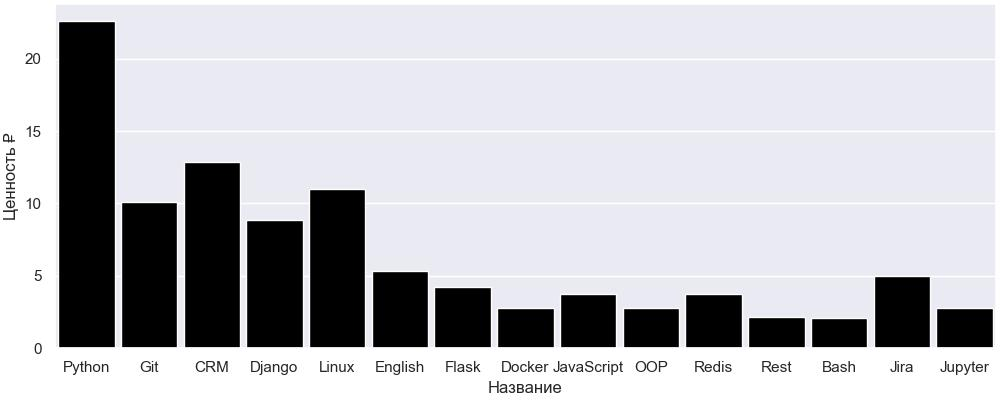
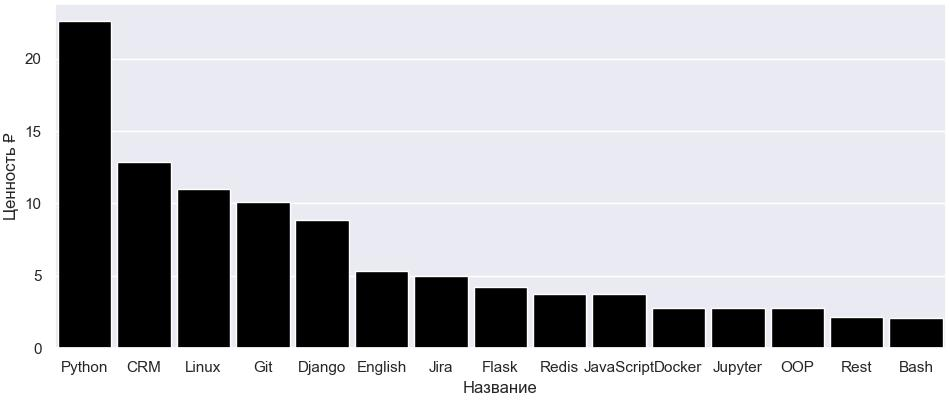
added description for some skills, special pages with details for skills and expanded sidebar

diff --git a/app/templates/side_navigation.html b/app/templates/side_navigation.html
@@ -2,5 +2,23 @@
     <right> <h5>Категории</h5> </right>
     <ul class="list-group">
         <li class="list-group-item"><a href="{{ url_for('index_page')}} ">Главная</a></li>
+        <li class="list-group-item"><a href="{{ url_for('skill_page', name='Python')}} ">Python</a></li>
+        <li class="list-group-item"><a href="{{ url_for('skill_page', name='CRM')}} ">CRM</a></li>
+        <li class="list-group-item"><a href="{{ url_for('skill_page', name='Linux')}} ">Linux</a></li>
+        <li class="list-group-item"><a href="{{ url_for('skill_page', name='Git')}} ">Git</a></li>
+        <li class="list-group-item"><a href="{{ url_for('skill_page', name='Django')}} ">Django</a></li>
+        <li class="list-group-item"><a href="{{ url_for('skill_page', name='English')}} ">English</a></li>
+        <li class="list-group-item"><a href="{{ url_for('skill_page', name='Jira')}} ">Jira</a></li>
+        <li class="list-group-item"><a href="{{ url_for('skill_page', name='Flask')}} ">Flask</a></li>
+        <li class="list-group-item"><a href="{{ url_for('skill_page', name='Redis')}} ">Redis</a></li>
+        <li class="list-group-item"><a href="{{ url_for('skill_page', name='JavaScript')}} ">JavaScript</a></li>
+        <li class="list-group-item"><a href="{{ url_for('skill_page', name='Docker')}} ">Docker</a></li>
+        <li class="list-group-item"><a href="{{ url_for('skill_page', name='Jupyter')}} ">Jupyter</a></li>
+        <li class="list-group-item"><a href="{{ url_for('skill_page', name='OOP')}} ">OOP</a></li>
+        <li class="list-group-item"><a href="{{ url_for('skill_page', name='Rest')}} ">Rest</a></li>
+        <li class="list-group-item"><a href="{{ url_for('skill_page', name='Bash')}} ">Bash</a></li>
+        
+        
+
     </ul>
 </div>

diff --git a/app/templates/skill.html b/app/templates/skill.html
@@ -1,0 +1,27 @@
+{% extends 'base.html' %}
+{% block title %}
+{{ skill[0]}}
+{% endblock  title%}
+{% block header%} 
+    <h1> Статистика по навыку "{{skill[0]}}"</h1>
+{% endblock header%}
+{% block content %}
+<table class="table">
+    <thead class="thead-dark">
+      <tr>
+        <th scope="col">#</th>
+        <th scope="col">Property</th>
+        <th scope="col">Value</th>
+      </tr>
+    </thead>
+    <tbody>
+        {% for i in range(1, length) %}
+      <tr>
+        <th scope="row">{{i + 1}}</th>
+        <td>{{skill.index[i]}}</td>
+        <td>{{skill[i]}}</td>
+      </tr>
+      {% endfor %}
+    </tbody>
+</table>
+{% endblock  content%}

diff --git a/app/templates/index.html b/app/templates/index.html
@@ -7,7 +7,7 @@
  {% endblock header%}
 {% block content %}
        <center> <h3>Навыки Backend Developer</h3> </center>
-       <img src="{{ url_for('static', filename='table.jpg') }}" >
+       <img src="{{ url_for('static', filename='table.jpg') }}" alt = 'текст'>
        <table class="table">
         <thead class="thead-dark">
           <tr>

diff --git a/app/views.py b/app/views.py
@@ -7,14 +7,22 @@ import os
 
 @app.route('/')
 def index_page():
-    df = pd.read_csv("files/skills_relatives.csv")
+    df = pd.read_csv("files/skills_relatives.csv").sort_values(by='Ценность ₽', ascending=False)
     sns.set(style="darkgrid")
-    plt.figure(figsize=(10,4), edgecolor = '0', layout='constrained')
+    plt.figure(figsize=(9.5,4), edgecolor = '0', layout='constrained')
     plot = sns.barplot(data=df, x="Название", y="Ценность ₽", color = '0', width = 0.9)
     fig = plot.get_figure()
     fig.savefig("app/static/table.jpg")
     return render_template('index.html', names= df.iloc[:, 0].to_list(), costs = [round(i,2) for i in df.iloc[:, 1].to_list()], length=len(df))
 
+
+@app.route('/skill/<string:name>')
+def skill_page(name):
+    df = pd.read_csv("files/skill.csv")
+    skill = df.loc[df.name == name].squeeze(axis = 0)
+    length = len(skill)
+    print(type(skill))
+    return render_template('skill.html', skill = skill, length = length)
 
 @app.errorhandler(404)
 def page_not_found(e):
